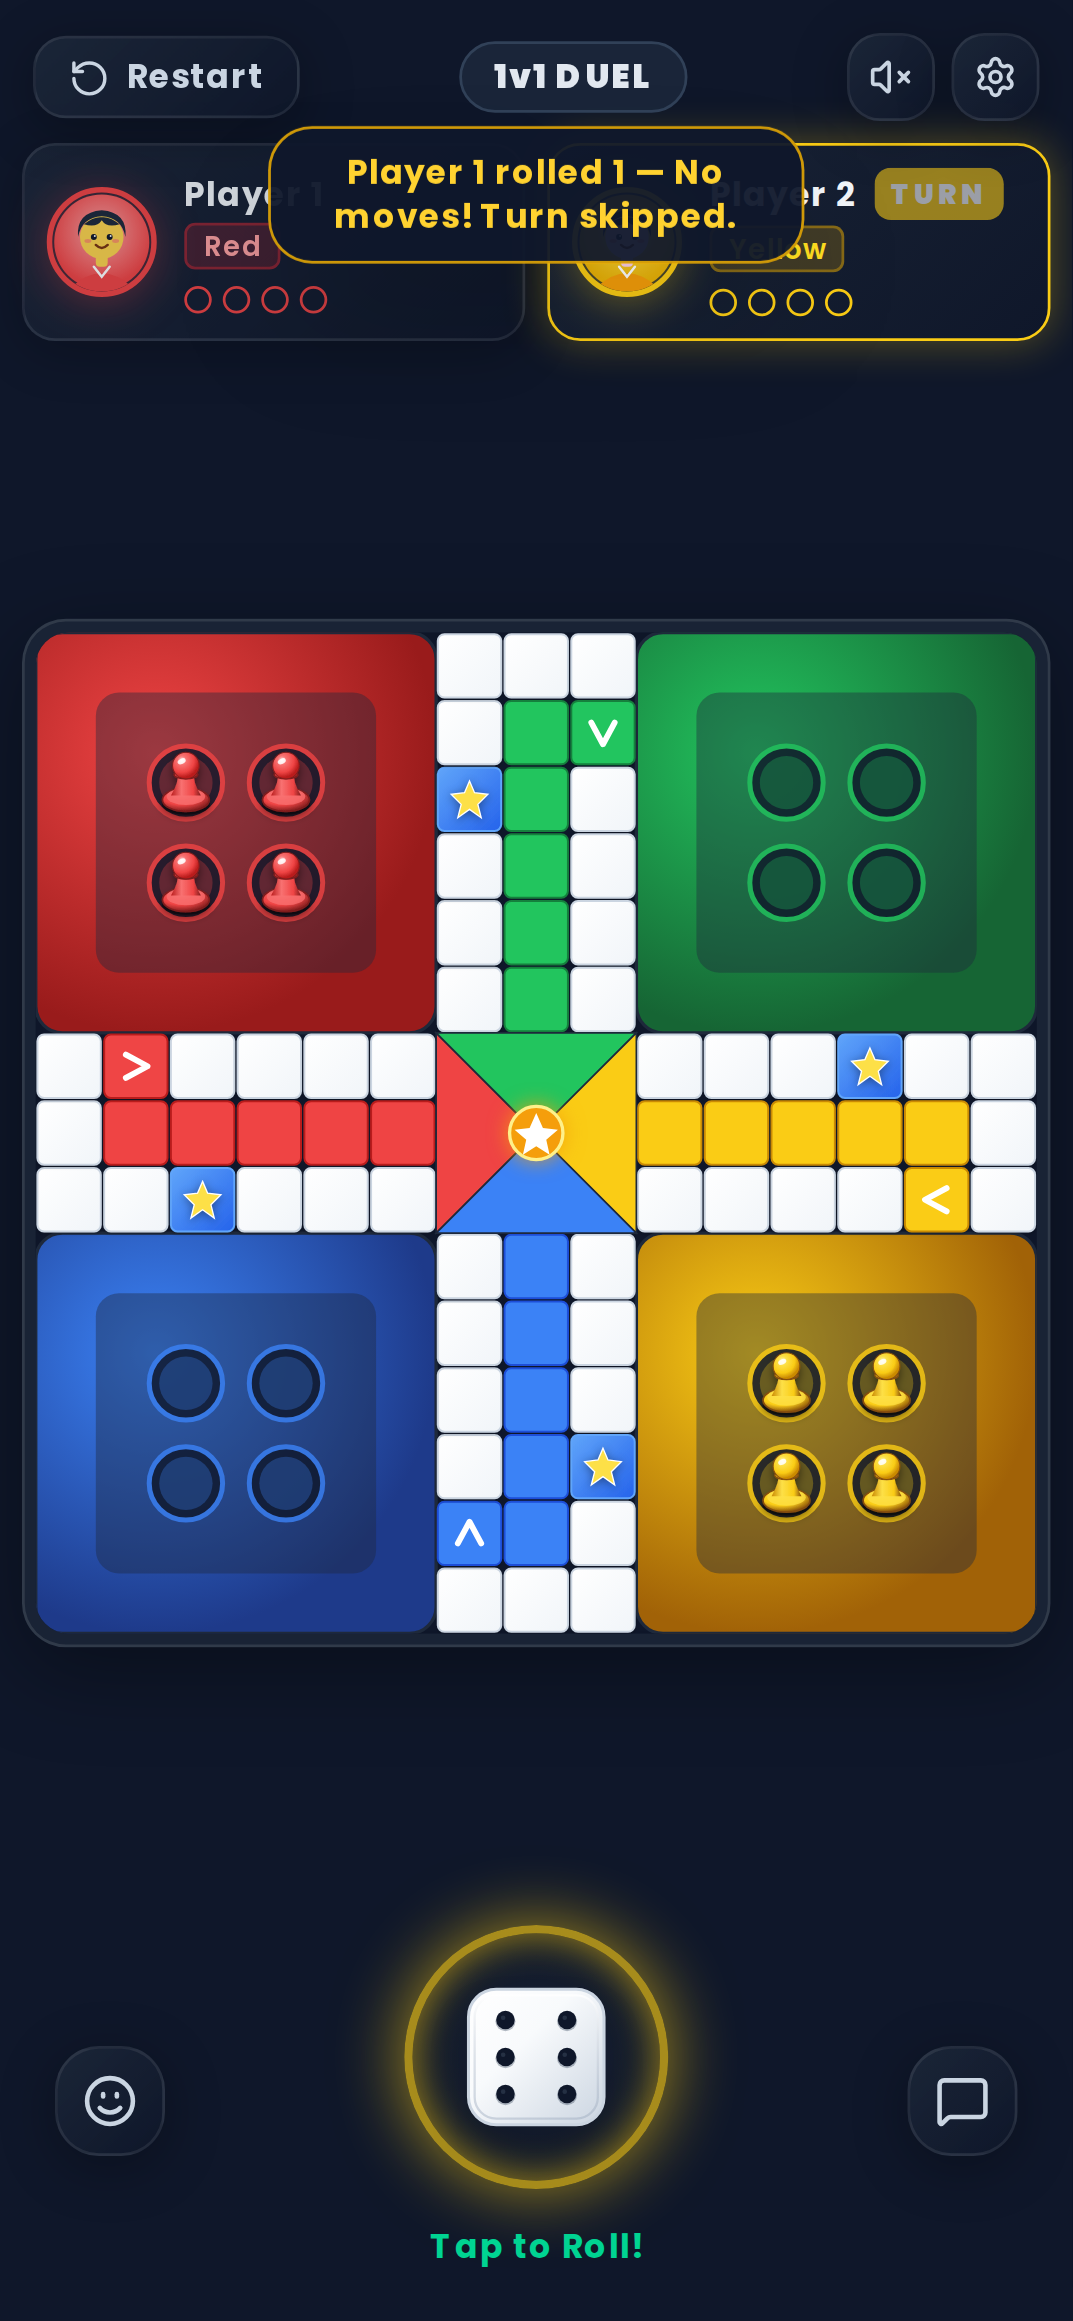
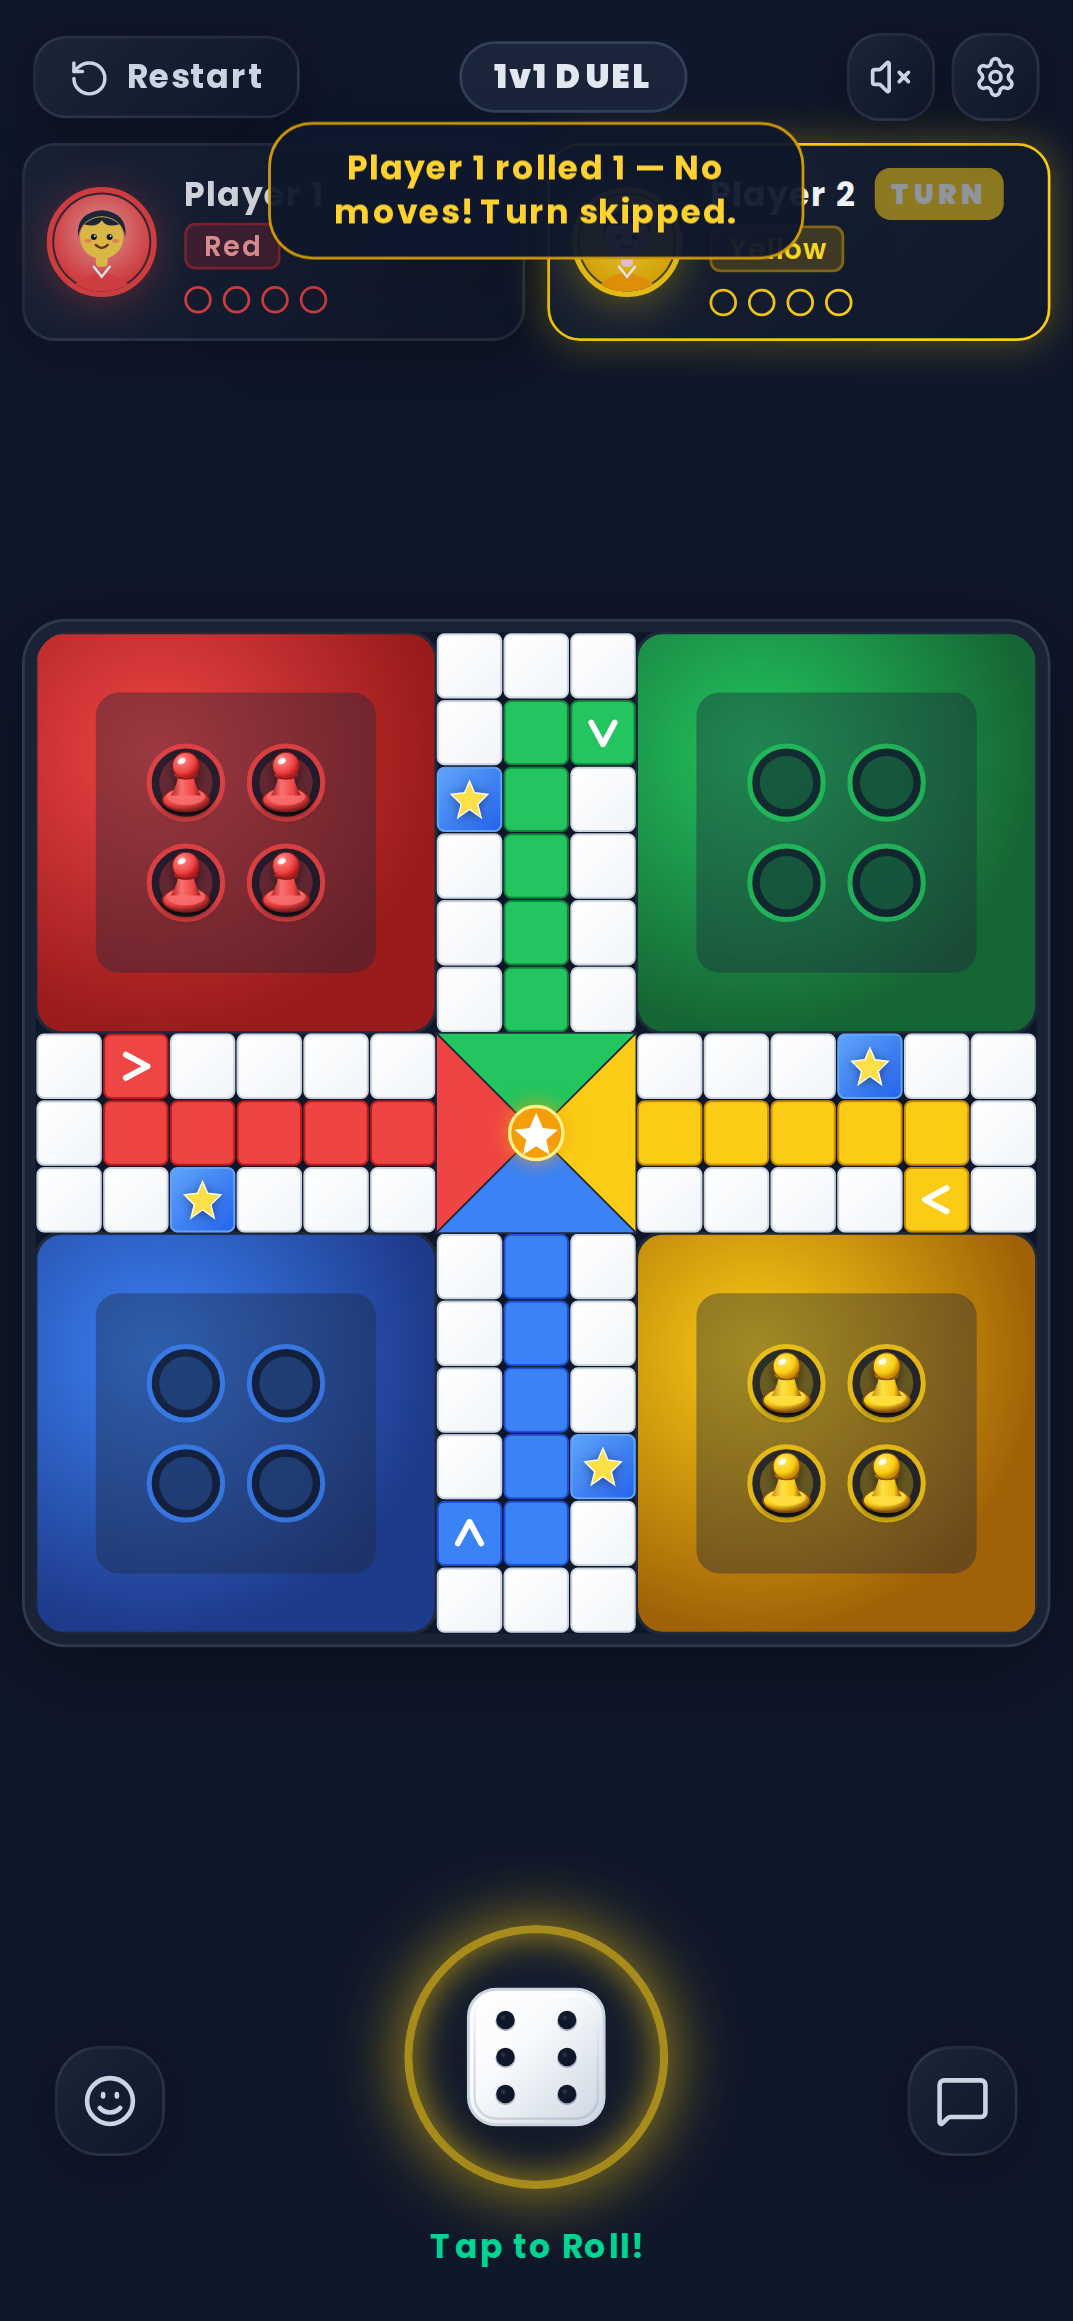
feat(security): enforce session_id isolation, room listing restrictions, and direct write blocks

Changed region(s): [[0.246, 0.062, 0.7381, 0.1241], [0.7074, 0.031, 0.7381, 0.062], [0.2768, 0.031, 0.3075, 0.062]]

diff --git a/src/lib/multiplayer/__tests__/security.test.ts b/src/lib/multiplayer/__tests__/security.test.ts
@@ -1,0 +1,186 @@
+import { describe, it, expect } from 'vitest';
+import { createClient } from '@supabase/supabase-js';
+import { MultiplayerService } from '../service';
+
+const supabaseUrl = process.env.NEXT_PUBLIC_SUPABASE_URL || 'https://cxadtmbgybrqtipplhzn.supabase.co';
+const supabaseAnonKey =
+  process.env.NEXT_PUBLIC_SUPABASE_ANON_KEY ||
+  'eyJhbGciOiJIUzI1NiIsInR5cCI6IkpXVCJ9.eyJpc3MiOiJzdXBhYmFzZSIsInJlZiI6ImN4YWR0bWJneWJycXRpcHBsaHpuIiwicm9sZSI6ImFub24iLCJpYXQiOjE3OTMwOTQzNTQsImV4cCI6MjEwODY3MDM1NH0.5O_g-cb0tyT9a9BWUndMzLNmbBwN0zNVWhVci5zuhaE';
+
+// Create unprivileged client (anon role)
+const anonClient = createClient(supabaseUrl, supabaseAnonKey, {
+  auth: { persistSession: false },
+});
+
+describe('Multiplayer Security & RLS Isolation Tests', () => {
+  describe('1. Direct Client Write Rejection (No Direct INSERT/UPDATE/DELETE)', () => {
+    it('blocks client from directly inserting into rooms table', async () => {
+      const { data, error } = await anonClient
+        .from('rooms')
+        .insert({
+          code: 'HACK01',
+          host_id: 'malicious-client',
+          mode: '1v1',
+        })
+        .select();
+
+      expect(data).toBeNull();
+      expect(error).not.toBeNull();
+      expect(error?.code).toBe('42501'); // Postgres permission denied
+    });
+
+    it('blocks client from directly updating rooms table', async () => {
+      const { data, error } = await anonClient
+        .from('rooms')
+        .update({ version: 999 })
+        .eq('code', 'ANYCOD')
+        .select();
+
+      expect(data).toBeNull();
+      expect(error).not.toBeNull();
+      expect(error?.code).toBe('42501');
+    });
+
+    it('blocks client from directly deleting from rooms table', async () => {
+      const { data, error } = await anonClient
+        .from('rooms')
+        .delete()
+        .eq('code', 'ANYCOD')
+        .select();
+
+      expect(data).toBeNull();
+      expect(error).not.toBeNull();
+      expect(error?.code).toBe('42501');
+    });
+
+    it('blocks client from directly inserting into room_players table', async () => {
+      const { data, error } = await anonClient
+        .from('room_players')
+        .insert({
+          session_id: 'fake-session',
+          name: 'Attacker',
+          color: 'red',
+          team: 'teamA',
+          seat_index: 0,
+        })
+        .select();
+
+      expect(data).toBeNull();
+      expect(error).not.toBeNull();
+      expect(error?.code).toBe('42501');
+    });
+
+    it('blocks client from directly updating room_players table', async () => {
+      const { data, error } = await anonClient
+        .from('room_players')
+        .update({ is_ready: true })
+        .eq('session_id', 'fake-session')
+        .select();
+
+      expect(data).toBeNull();
+      expect(error).not.toBeNull();
+      expect(error?.code).toBe('42501');
+    });
+
+    it('blocks client from directly deleting from room_players table', async () => {
+      const { data, error } = await anonClient
+        .from('room_players')
+        .delete()
+        .eq('session_id', 'fake-session')
+        .select();
+
+      expect(data).toBeNull();
+      expect(error).not.toBeNull();
+      expect(error?.code).toBe('42501');
+    });
+  });
+
+  describe('2. session_id Column Protection', () => {
+    it('blocks client from reading session_id column via direct SELECT', async () => {
+      const { data, error } = await anonClient
+        .from('room_players')
+        .select('session_id');
+
+      expect(data).toBeNull();
+      expect(error).not.toBeNull();
+      expect(error?.code).toBe('42501'); // Permission denied for table/column
+    });
+
+    it('allows client to read public view without session_id column', async () => {
+      const { data, error } = await anonClient
+        .from('room_players_public')
+        .select('*');
+
+      expect(error).toBeNull();
+      expect(Array.isArray(data)).toBe(true);
+      // Verify no row in data contains session_id
+      if (data && data.length > 0) {
+        expect(data[0]).not.toHaveProperty('session_id');
+      }
+    });
+  });
+
+  describe('3. Room Enumeration Restriction', () => {
+    it('prevents client from listing all rooms', async () => {
+      const { data, error } = await anonClient
+        .from('rooms')
+        .select('*');
+
+      expect(error).toBeNull();
+      // Returns empty array because RLS blocks unrestricted table browsing
+      expect(data).toEqual([]);
+    });
+
+    it('allows reading room strictly through RPC get_room_by_code', async () => {
+      const { data, error } = await anonClient
+        .rpc('get_room_by_code', { p_code: 'NON_EXISTENT_CODE' });
+
+      expect(error).toBeNull();
+      expect(data).toEqual([]);
+    });
+  });
+
+  describe('4. Server-Side Session Isolation in MultiplayerService', () => {
+    it('strips other players session_id in getRoomData', async () => {
+      // Create a mock room data with 2 players
+      const hostSession = 'secret-host-session-123';
+      const guestSession = 'secret-guest-session-456';
+
+      const created = await MultiplayerService.createRoom({
+        mode: '1v1',
+        playerName: 'Host',
+        playerColor: 'red',
+        sessionId: hostSession,
+      });
+
+      const joined = await MultiplayerService.joinRoom({
+        roomCode: created.room.code,
+        playerName: 'Guest',
+        sessionId: guestSession,
+      });
+      expect(joined.me?.session_id).toBe(guestSession);
+      expect(joined.players.length).toBe(2);
+
+      // Request as Guest: Host's session_id must be stripped
+      const guestView = await MultiplayerService.getRoomData({
+        code: created.room.code,
+        sessionId: guestSession,
+      });
+
+      const hostInGuestView = guestView.players.find((p) => p.name === 'Host');
+      const guestInGuestView = guestView.players.find((p) => p.name === 'Guest');
+
+      expect(hostInGuestView?.session_id).toBeUndefined();
+      expect(guestInGuestView?.session_id).toBe(guestSession);
+
+      // Request without session: ALL session_ids must be stripped
+      const publicView = await MultiplayerService.getRoomData({
+        code: created.room.code,
+      });
+
+      for (const p of publicView.players) {
+        expect(p.session_id).toBeUndefined();
+      }
+    });
+  });
+});

diff --git a/src/lib/multiplayer/service.ts b/src/lib/multiplayer/service.ts
@@ -26,6 +26,19 @@ function createServiceError(message: string, code?: string): ServiceError {
   return err;
 }
 
+/**
+ * Strips other players' session_ids so that clients cannot inspect or steal them.
+ */
+function sanitizePlayerList(players: RoomPlayerRow[], clientSessionId?: string): RoomPlayerRow[] {
+  return players.map((p) => {
+    const { session_id, ...safe } = p;
+    if (clientSessionId && session_id === clientSessionId) {
+      return { ...safe, session_id };
+    }
+    return safe;
+  });
+}
+
 export class MultiplayerService {
   /**
    * Creates a new multiplayer room.
@@ -101,7 +114,7 @@ export class MultiplayerService {
 
     return {
       room: room as RoomRow,
-      players: [player as RoomPlayerRow],
+      players: sanitizePlayerList([player as RoomPlayerRow], input.sessionId),
       me: player as RoomPlayerRow,
     };
   }
@@ -148,7 +161,7 @@ export class MultiplayerService {
       existingMe.is_connected = true;
       return {
         room: room as RoomRow,
-        players: players as RoomPlayerRow[],
+        players: sanitizePlayerList(players as RoomPlayerRow[], input.sessionId),
         me: existingMe as RoomPlayerRow,
       };
     }
@@ -208,7 +221,7 @@ export class MultiplayerService {
 
     return {
       room: room as RoomRow,
-      players: updatedPlayers,
+      players: sanitizePlayerList(updatedPlayers, input.sessionId),
       me: newPlayer as RoomPlayerRow,
     };
   }
@@ -285,7 +298,7 @@ export class MultiplayerService {
 
     return {
       room: updatedRoom,
-      players: playerList,
+      players: sanitizePlayerList(playerList, input.sessionId),
       me,
     };
   }
@@ -497,7 +510,7 @@ export class MultiplayerService {
 
     return {
       room: room as RoomRow,
-      players: playerList,
+      players: sanitizePlayerList(playerList, input.sessionId),
       me,
     };
   }
@@ -520,7 +533,7 @@ export class MultiplayerService {
   /**
    * Get room state by code or ID.
    */
-  static async getRoomData(identifier: { code?: string; id?: string }): Promise<MultiplayerRoomData> {
+  static async getRoomData(identifier: { code?: string; id?: string; sessionId?: string }): Promise<MultiplayerRoomData> {
     const supabase = getSupabaseServerClient();
     let query = supabase.from('rooms').select('*');
 
@@ -543,9 +556,15 @@ export class MultiplayerService {
       .eq('room_id', room.id)
       .order('seat_index', { ascending: true });
 
+    const playerList = (players || []) as RoomPlayerRow[];
+    const me = identifier.sessionId
+      ? playerList.find((p) => p.session_id === identifier.sessionId)
+      : undefined;
+
     return {
       room: room as RoomRow,
-      players: (players || []) as RoomPlayerRow[],
+      players: sanitizePlayerList(playerList, identifier.sessionId),
+      me,
     };
   }
 }

diff --git a/src/app/api/room/[action]/route.ts b/src/app/api/room/[action]/route.ts
@@ -84,7 +84,8 @@ export async function GET(
     if (action === 'get') {
       const code = url.searchParams.get('code') || undefined;
       const id = url.searchParams.get('id') || undefined;
-      const result = await MultiplayerService.getRoomData({ code, id });
+      const sessionId = url.searchParams.get('sessionId') || request.headers.get('x-session-id') || undefined;
+      const result = await MultiplayerService.getRoomData({ code, id, sessionId });
       return NextResponse.json({ success: true, data: result });
     }
 

diff --git a/src/lib/supabase/server.ts b/src/lib/supabase/server.ts
@@ -1,9 +1,9 @@
 import { createClient } from '@supabase/supabase-js';
 
-const supabaseUrl = process.env.NEXT_PUBLIC_SUPABASE_URL || '';
-const serviceRoleKey = process.env.SUPABASE_SERVICE_ROLE_KEY || '';
-
 export function getSupabaseServerClient() {
+  const supabaseUrl = process.env.NEXT_PUBLIC_SUPABASE_URL || '';
+  const serviceRoleKey = process.env.SUPABASE_SERVICE_ROLE_KEY || '';
+
   if (!supabaseUrl || !serviceRoleKey) {
     throw new Error('Supabase server environment variables (URL or SERVICE_ROLE_KEY) are not set');
   }

diff --git a/src/types/multiplayer.ts b/src/types/multiplayer.ts
@@ -20,7 +20,7 @@ export interface RoomRow {
 export interface RoomPlayerRow {
   id: string;
   room_id: string;
-  session_id: string;
+  session_id?: string;
   name: string;
   color: PlayerColor;
   team: string;
